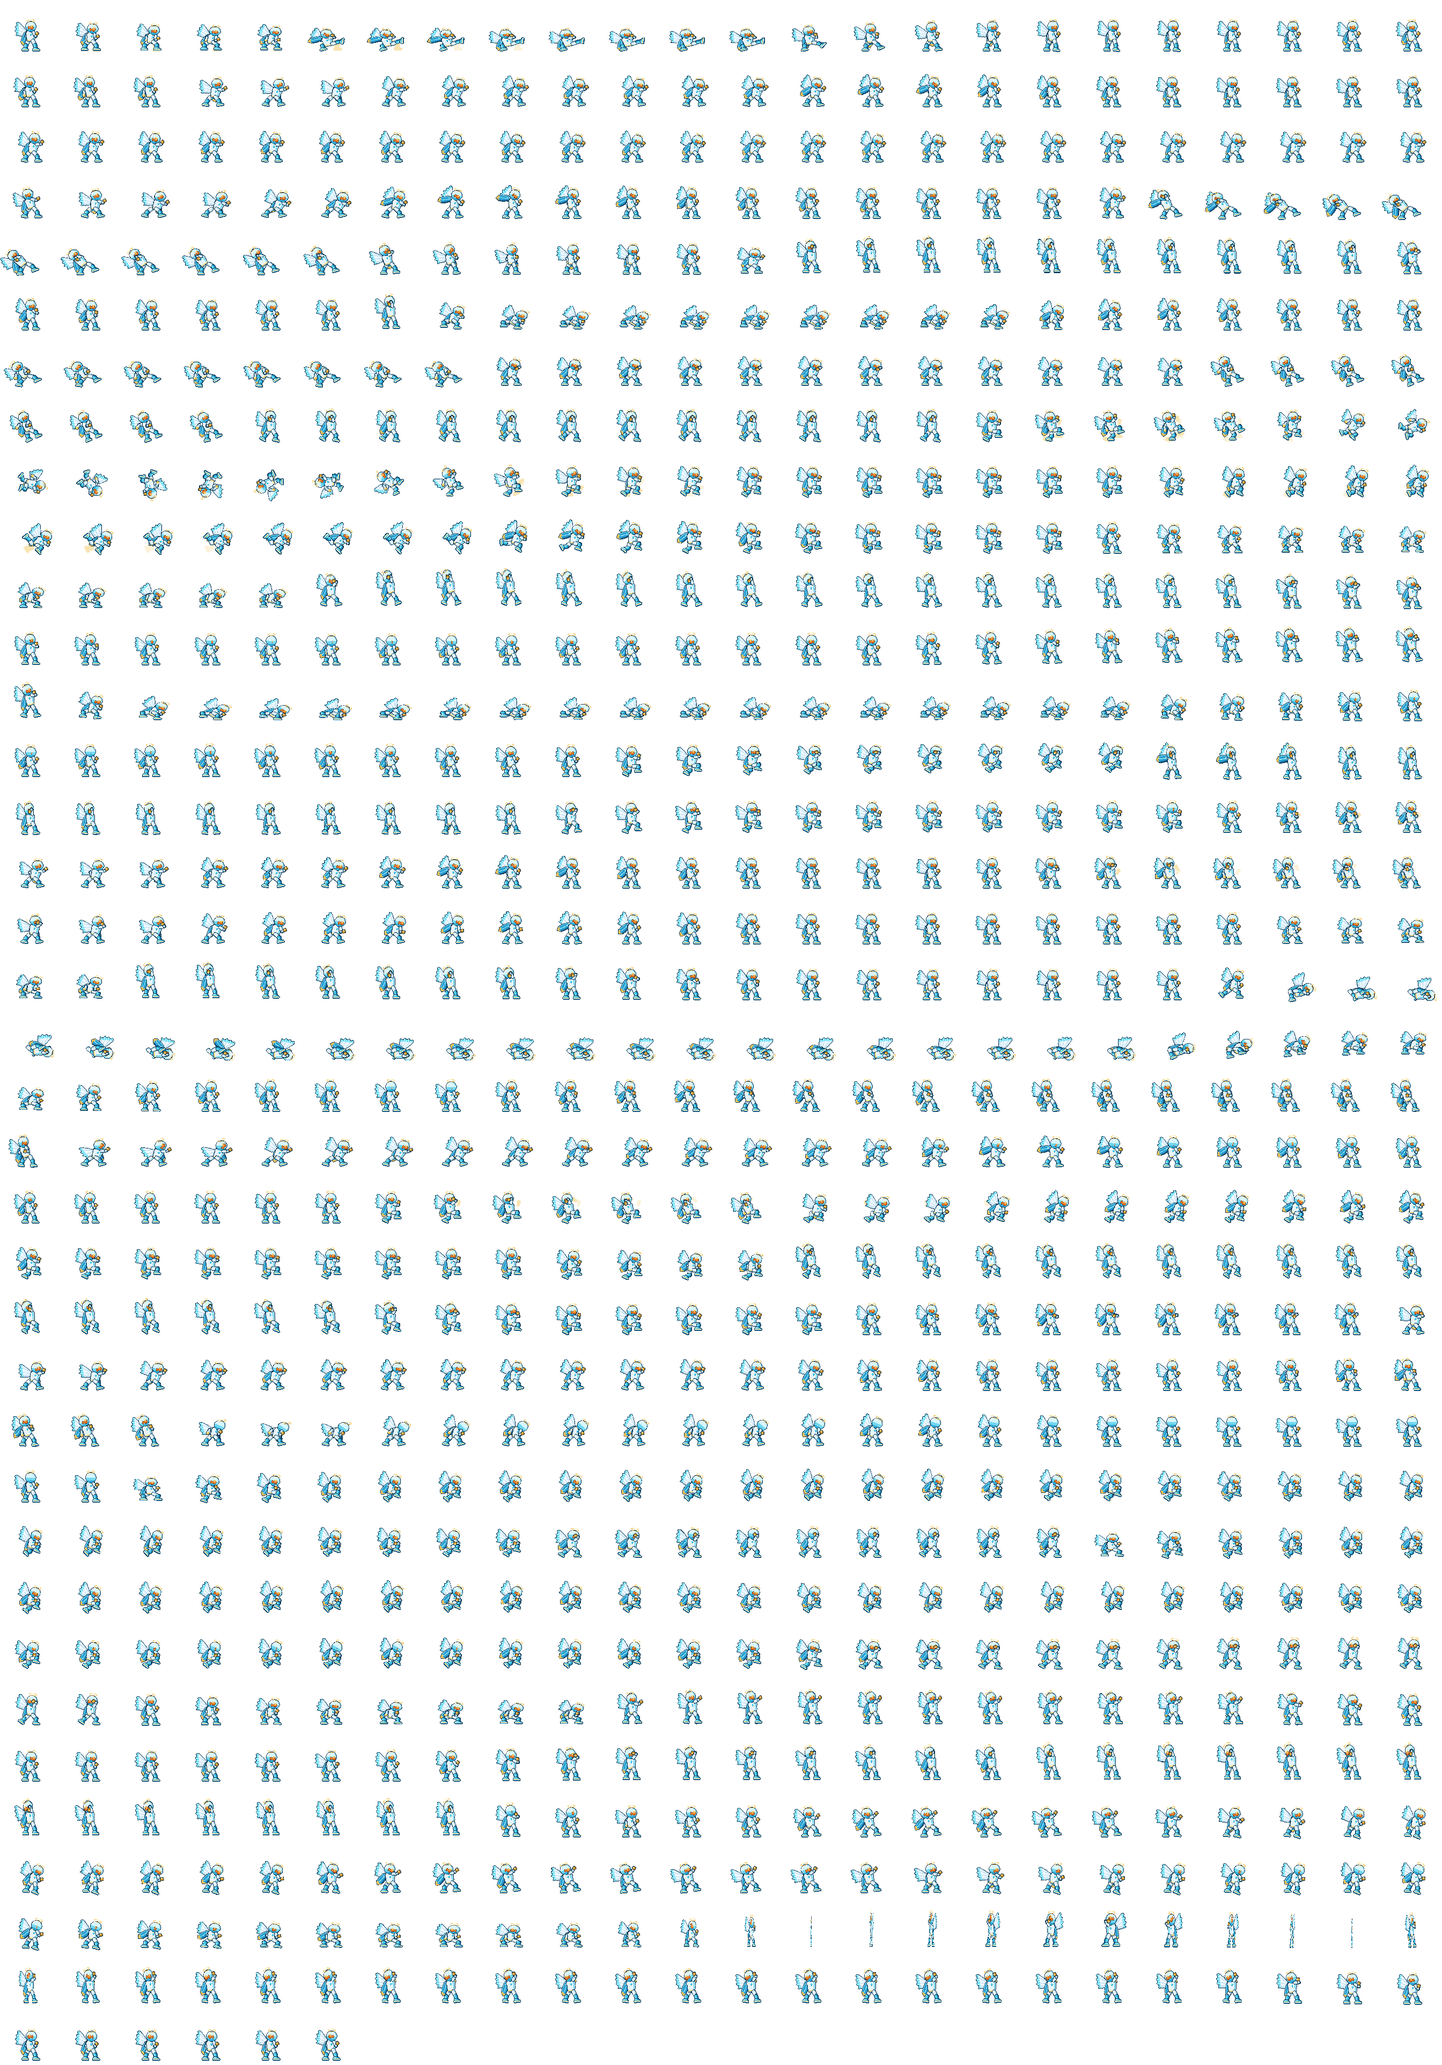
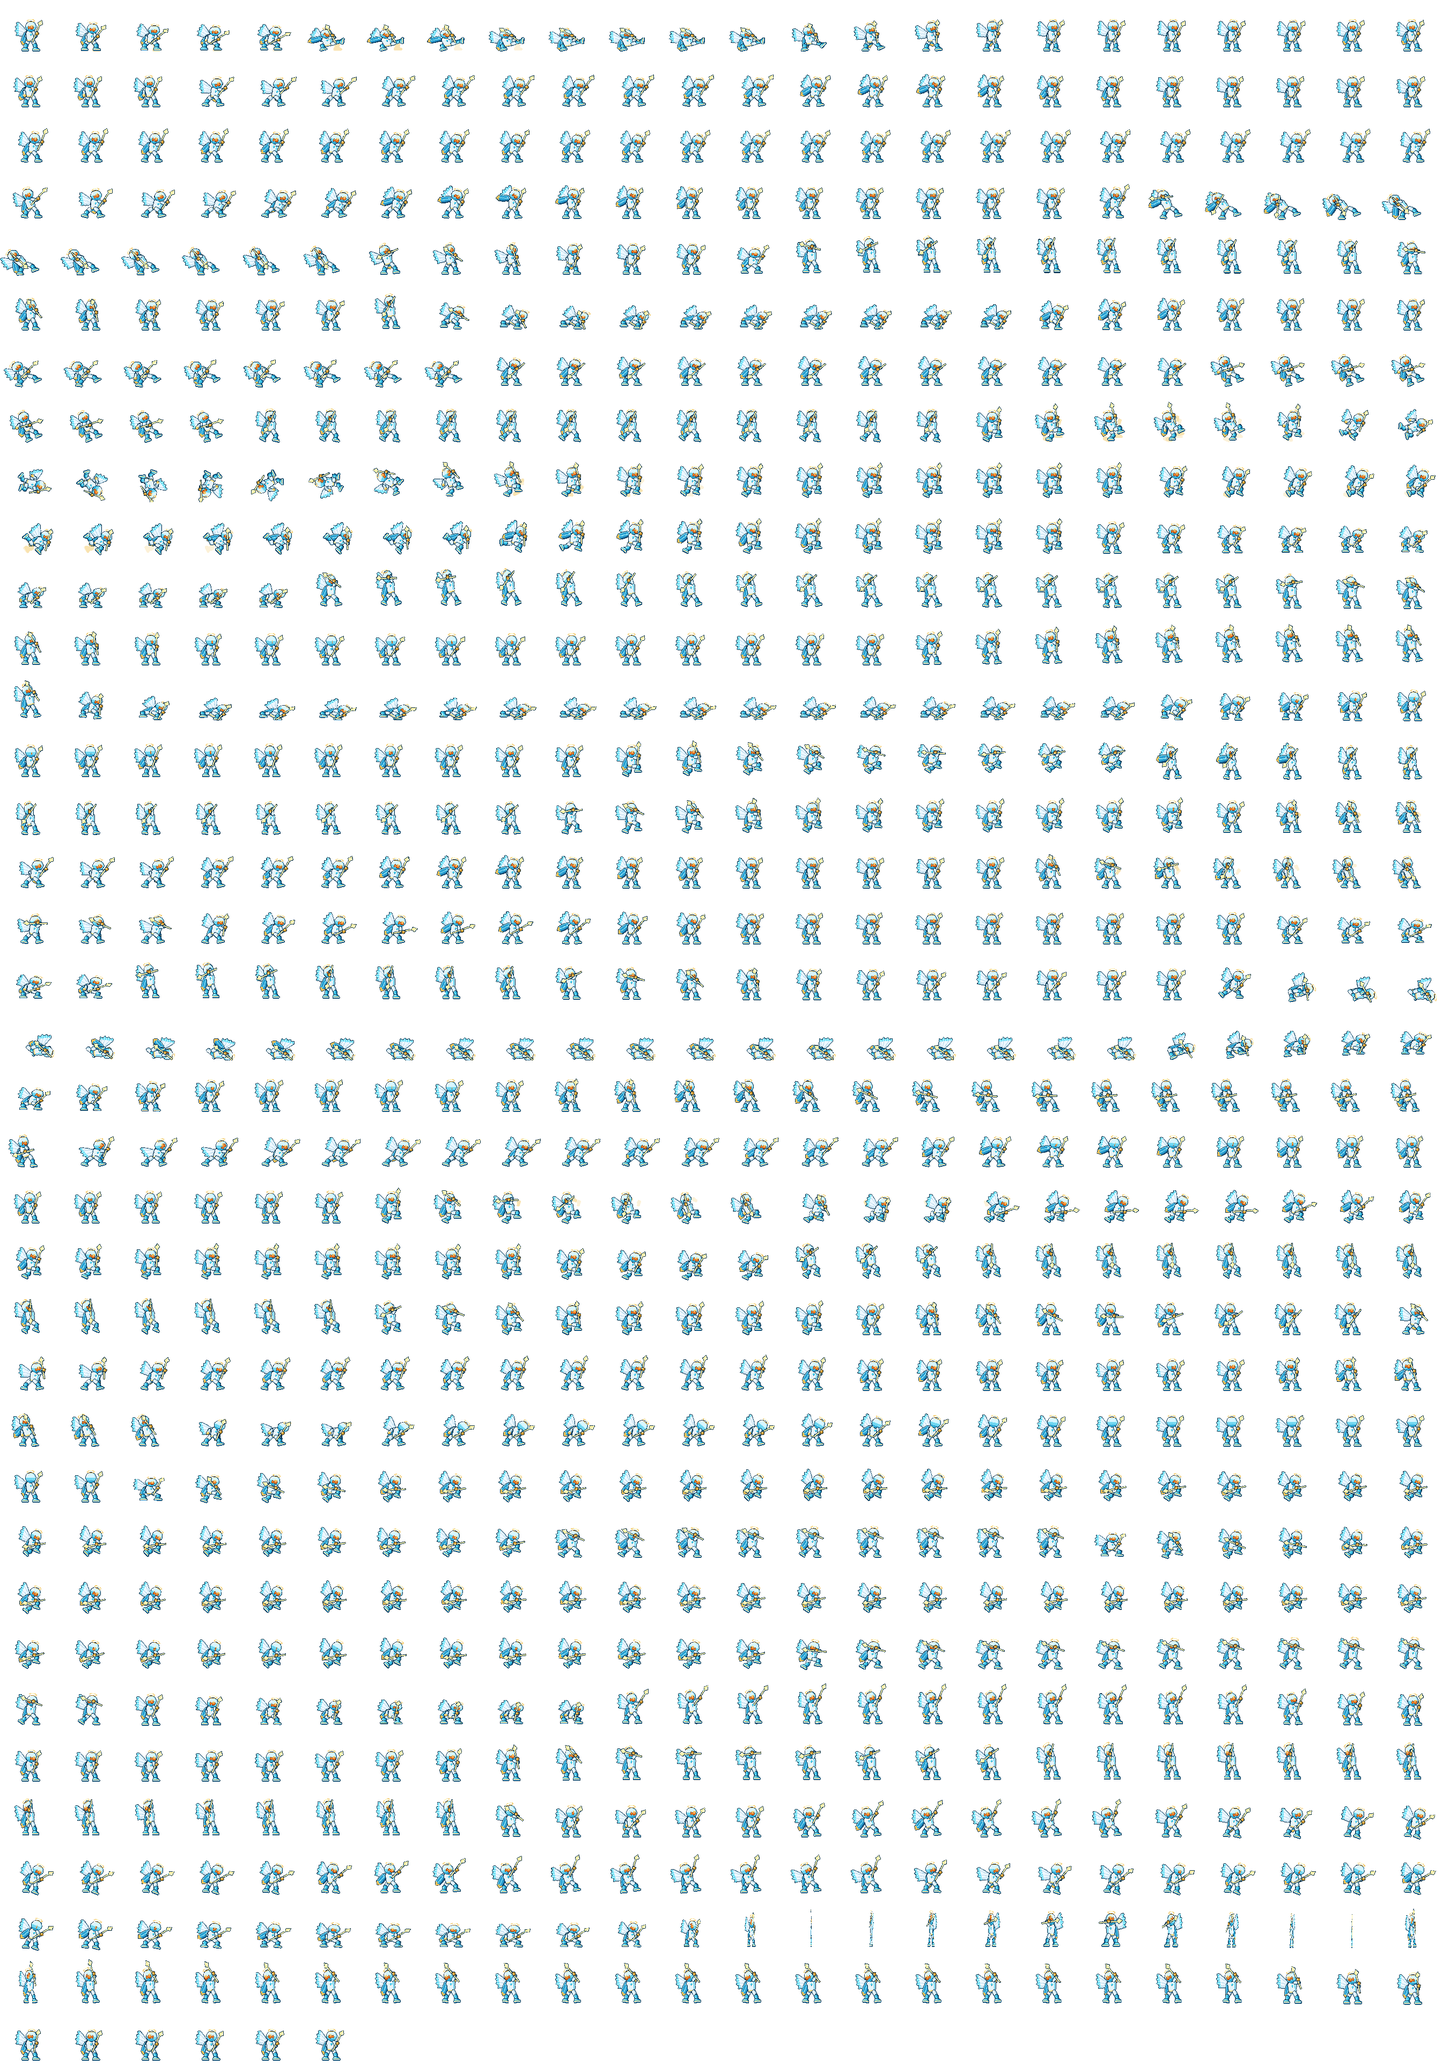
FULL AERO lasts until KO'd and wields a golden spear (more reach and damage on every normal); Character Files show milestone costumes and their full backstories before they're unlocked
Claude-Session: https://claude.ai/code/session_01QrPMowW61BtpNneRMoKnVz

diff --git a/src/scenes/FilesScene.js b/src/scenes/FilesScene.js
@@ -1,6 +1,7 @@
 // Character Files (TRINKETS > CHARACTER FILES): a dossier on each fighter - file number, alias, class,
 // weapon, origin, signature moves and Limit - their story, and a costume browser with each costume's
-// own story. Milestone costumes stay sealed (silhouette, no story) until they're unlocked.
+// own story. Milestone costumes can be looked at and read here before they're unlocked (marked LOCKED,
+// with how many KOs it takes to wear one).
 // W/S switches fighter, A/D switches costume, K / Esc / B goes back.
 // Mouse: click a fighter tab, or the < > arrows under the costume.
 import { VIEW_W, VIEW_H, FONT } from '../config.js';
@@ -12,7 +13,7 @@ import { addFullscreenButton } from '../ui/fullscreen.js';
 import { ROSTER, showFighter } from '../fighters/roster.js';
 import { skinsFor, skinUnlocked, skinTier } from '../fighters/skins.js';
 import { MILESTONE_KOS, getKOs } from '../progress.js';
-import { FILES, SKIN_LORE } from '../data/lore.js';
+import { FILES, SKIN_LORE, MILESTONE_LORE } from '../data/lore.js';
 
 const GOLD = '#f3c358', DIM = '#8a87a3', LINE = 0xc77dff, PANEL = 0x1c1230;
 const TAB_W = 150, TAB_Y = 44, L = { x: 16, y: 70, w: 190, h: 262 }, R = { x: 216, y: 70, w: 408, h: 262 };
@@ -71,11 +72,11 @@ export class FilesScene extends Phaser.Scene {
     this.fields.forEach(([, v], i) => v.setText(vals[i] || '???'));
     this.lore.setText(F.lore || 'NO FILE YET.');
     const open = skinUnlocked(f.id, this.si), tier = skinTier(f.id, this.si);
-    const story = skin.lore || (SKIN_LORE[f.id] || {})[skin.name];
-    this.skinName.setText(open ? skin.name : '? ? ?');
-    this.skinNote.setText((this.si + 1) + ' / ' + skins.length + (tier ? '\nMILESTONE ' + tier : '') + (open ? '' : '\nREACH ' + MILESTONE_KOS[tier] + ' KOS (' + getKOs(f.id) + ' SO FAR)'));
-    this.skinHead.setText('COSTUME FILE: ' + (open ? skin.name : 'SEALED'));
-    this.skinLore.setText(!open ? 'THIS FILE IS SEALED. WIN MORE FIGHTS AS ' + f.name + ' TO OPEN IT.' : story || 'NOTHING WRITTEN ABOUT THIS COSTUME YET.');
+    const story = (MILESTONE_LORE[f.id] || {})[skin.name] || skin.lore || (SKIN_LORE[f.id] || {})[skin.name];
+    this.skinName.setText(skin.name);
+    this.skinNote.setText((this.si + 1) + ' / ' + skins.length + (tier ? '\nMILESTONE ' + tier : '') + (open ? '' : '\nLOCKED: REACH ' + MILESTONE_KOS[tier] + ' KOS (' + getKOs(f.id) + ' SO FAR)'));
+    this.skinHead.setText('COSTUME FILE: ' + skin.name + (tier ? '  (MILESTONE ' + tier + (open ? ')' : ' - LOCKED)') : ''));
+    this.skinLore.setText(story || 'NOTHING WRITTEN ABOUT THIS COSTUME YET.');
     this.locked = !open;
   }
 
@@ -101,6 +102,11 @@ export class FilesScene extends Phaser.Scene {
     sg.fillStyle(0x2a1f44, 1); sg.fillRect(cx - 50, by, 100, 6); sg.fillStyle(0x3a2a5a, 1); sg.fillRect(cx - 44, by + 6, 88, 4);
     showFighter(this.sprite, def, Math.floor(this.t / 6), this.si);
     this.sprite.setPosition(cx, by).setScale(def.ownAnims ? 1.4 : 2);
-    if (this.locked) this.sprite.setTint(0x0b0a14).setTintMode(Phaser.TintModes.FILL); else this.sprite.clearTint();
+    this.sprite.clearTint().setAlpha(this.locked ? 0.75 + 0.1 * Math.sin(this.t * 0.08) : 1);   // a locked costume: shown, but a little ghostly
+    const lg = this.stageG;
+    if (this.locked) {                                               // a small padlock on the plinth
+      lg.fillStyle(0xf3c358, 1); lg.fillRect(cx + 36, by - 8, 10, 8); lg.lineStyle(2, 0xf3c358, 1); lg.strokeRect(cx + 38, by - 13, 6, 6);
+      lg.fillStyle(0x0b0a14, 1); lg.fillRect(cx + 40, by - 5, 2, 3);
+    }
   }
 }

diff --git a/src/data/lore.js b/src/data/lore.js
@@ -56,3 +56,26 @@ export const SKIN_LORE = {
     STARLIGHT: 'She stood night watch on the Sanctum walls so often that the stars started to stick to her armour.',
   },
 };
+
+// the full backstory of each milestone costume, shown in CHARACTER FILES (even before it's unlocked).
+// The one-line `lore` in skins.js is what the unlock screen shows.
+export const MILESTONE_LORE = {
+  'soul-summoner': {
+    GRAVEKEEPER: 'Before the crown, before the fire, he dug graves below the Sky Sanctum for a copper a day. One night, with rain in the open pits, the dead whispered his name - and he was the only one in the kingdom who whispered back.',
+    WRAITHBINDER: 'He learned their names, and a name is a leash. Two wraiths came first: a drowned sailor and a soldier with no face. They never left his side again, and they never once disobeyed him.',
+    LICH: 'Binding the dead costs the living a little of themselves every time. He paid until there was nothing left to pay with. His flesh fell away, and a crown of violet fire lit itself above his bare skull.',
+    'THE HOLLOW KING': 'Every soul he ever raised came home at once. The dead of a thousand years knelt before him on a throne of grave dirt and blue flame. The Hollow King does not rule a kingdom. He rules everyone who has ever left one.',
+  },
+  'hero-knight': {
+    SQUIRE: 'Lacy was twelve when the knights rode out and never came back. She put on the bronze armour they left behind, three sizes too big, picked up a borrowed sword, and swore their oath alone in an empty chapel.',
+    'KNIGHT-CAPTAIN': 'No one was left to knight her, so the people she saved did it instead - on a muddy field, with her own sword, after she held a bridge for a whole night. The royal blue was a gift from the village weavers.',
+    PALADIN: 'An old shrine in the mountains had waited a hundred years for someone to keep the oath long enough. When she knelt there, the light came down and stayed. Now it gathers wherever her sword falls.',
+    SERAPH: 'The oath is fulfilled: every promise kept, every person protected. The order she carried alone rises with her on wings of light. She still swings like a slugger. Some things a seraph keeps.',
+  },
+  'mr-wake': {
+    RIPTIDE: 'The first time he lost a fight, he walked back into the sea to sulk. The tide turned under him and pulled - and for the first time in a hundred years, something down there pulled harder than he did. He came out soaked and smiling.',
+    DEEPWATER: 'He let the current take him deeper. Past the wrecks, past the light, down where the gem in his staff had to learn to glow on its own. Bubbles still stream from his cloak - the sea keeps trying to breathe through him.',
+    "ANGLER'S PACT": 'At the bottom of the black trench, something with a lantern for a face offered him a deal. He took it. His staff became a lure, his skin a lantern, and nobody - not even Mr Wake - remembers what he gave in return.',
+    TIDEFATHER: 'The abyss answered. It crowned him in coral and gave him the tides to wear like a cloak. When the Tidefather moves, the ocean moves with him, and every drowned thing beneath it remembers his name.',
+  },
+};

diff --git a/src/fighters/aero.js b/src/fighters/aero.js
@@ -96,21 +96,42 @@ export const AERO = {
     colors: PAL_AQUA,
   },
   // FULL AERO: his Limit with two computers out. They pour their power into him, a blast hits everyone
-  // near him for 30%, GOING FULL AERO appears, the stage turns Frutiger Aero and he transforms for 15 s.
+  // near him for 30%, GOING FULL AERO appears, the stage turns Frutiger Aero and he transforms - for good,
+  // until he's KO'd.
   altLimit: {
-    name: 'FULL AERO', frames: 100, blastAt: 50, radius: 170, duration: 900,
+    name: 'FULL AERO', frames: 100, blastAt: 50, radius: 170,
+    duration: Infinity,             // frames he stays FULL AERO (Infinity = until he's KO'd)
     blast: { dmg: 30, angle: 70, base: 6.0, growth: 5.4, radial: true },
   },
 };
 
-// AERO in FULL AERO: winged, haloed, crowned (tools/sprites/aero_king_draw.py), every stat boosted
-// (Fighter.aeroLevel), and every special upgraded.
+// FULL AERO's GOLDEN SPEAR: his normal attacks are spear thrusts and sweeps now. Each one's hitbox grows the
+// way the attack points (forward, up, down, back or both ways) and hits harder.
+const SPEAR = {
+  reach: 22,                        // extra reach in pixels
+  dmg: 1.25,                        // damage multiplier (tiny 1% multi-hits stay as they are)
+  dir: { jab: 'f', ftilt: 'f', dtilt: 'f', dashAttack: 'f', fsmash: 'f', fair: 'f', nair: 'both', dsmash: 'both', utilt: 'up', usmash: 'up', uair: 'up', bair: 'back', dair: 'down' },
+};
+function spearMove(m, dir) {
+  const r = SPEAR.reach;
+  return { ...m, hits: m.hits.map((h) => {
+    let [x, y, w, hh] = h.box;
+    if (dir === 'f') w += r; else if (dir === 'back') { x -= r; w += r; } else if (dir === 'both') { x -= r; w += 2 * r; }
+    else if (dir === 'up') { y -= r; hh += r; } else if (dir === 'down') hh += r;
+    return { ...h, box: [x, y, w, hh], dmg: h.dmg > 1 ? Math.round(h.dmg * SPEAR.dmg) : h.dmg };
+  }) };
+}
+
+// AERO in FULL AERO: winged, haloed, crowned, with a golden spear (tools/sprites/aero_king_draw.py), every
+// stat boosted (Fighter.aeroLevel), every normal attack a spear attack and every special upgraded.
 export const AERO_FULL = {
   ...AERO,
+  swingSfx: 'whoosh',
   sheets: { idle: 'aero_king_idle', run: 'aero_king_run', jump: 'aero_king_jump', fall: 'aero_king_fall', moves: 'aero_king_moves' },
   moveAnims: { ...AERO_MOVES, upb: AERO_MOVES.upb_king },
   moves: {
     ...AERO.moves,
+    ...Object.fromEntries(Object.entries(SPEAR.dir).map(([k, d]) => [k, spearMove(AERO.moves[k], d)])),
     // BUBBLE TRAP: blown out much faster, and the bubble holds them twice as long
     neutralB: { frames: 18, spawnAt: 7, bubble: { speed: 3.8, life: 110, r: 12, hit: { dmg: 5, angle: 90, base: 0.6, growth: 0, stun: 96, bubble: 96 } } },
     // GOLDFISH FLING: two fish at once

diff --git a/src/fighters/roster.js b/src/fighters/roster.js
@@ -26,7 +26,7 @@ export const TEST_ROSTER = [
     notes: 'GLOSSY GLASS, AQUA SKIES, BUBBLES AND\nA GOLDFISH IN A FISHBOWL. LIGHT AND FLOATY.\n\n'
       + 'JAB  BUBBLE POP      FTILT  AURORA SWOOSH\nFSMASH  LENS FLARE    USMASH  GEYSER\nDSMASH  RIPPLE        DAIR  RAINDROP\n\n'
       + 'K      BUBBLE TRAP - SEALS THEM IN A BUBBLE\nSIDE K GOLDFISH FLING - OUT AND BACK\nUP K   BUBBLE RIDE - FLOAT UP AND POP\n'
-      + 'DOWN K DESKTOP - STAY NEAR IT: POWERED UP\n\nLIMIT  SCREENSAVER - OR WITH 2 PCS OUT:\n       FULL AERO! (15 S, EVERYTHING UPGRADED)\n1      TAUNT: FISHBOWL BOOGIE' },
+      + 'DOWN K DESKTOP - STAY NEAR IT: POWERED UP\n\nLIMIT  SCREENSAVER - OR WITH 2 PCS OUT:\n       FULL AERO! (UNTIL KO\'D: GOLDEN SPEAR,\n       EVERYTHING UPGRADED)\n1      TAUNT: FISHBOWL BOOGIE' },
   { id: 'what-once-was', name: 'WHAT ONCE WAS', def: WHAT_ONCE_WAS, tag: 'PROTOTYPE 03',
     notes: 'LOST IN THE BACKROOMS SO LONG IT BECAME PART\nOF THEM. ITS HEAD IS AN OLD TV.\n\n'
       + 'JAB  SCREEN BASH     FTILT  LONG REACH\nFSMASH  CRT BLAST     USMASH  ANTENNA SURGE\nDSMASH  DEAD SIGNAL   DAIR  POWER CORD\n\n'

diff --git a/src/fighters/limitAero.js b/src/fighters/limitAero.js
@@ -89,7 +89,7 @@ export class LimitAero {
   // ---- FULL AERO (AERO's alternate Limit, with two computers out): the computers pour their power into
   // him, then a blast of light (30%) hits everyone near him, the words GOING FULL AERO appear, the stage
   // turns into a Frutiger Aero version of itself, and he transforms - winged, haloed, crowned - with every
-  // stat boosted and every special upgraded for the rest of the time (FULL_AERO in aero.js).
+  // stat boosted, a golden spear on every normal attack and every special upgraded - until he's KO'd (AERO_FULL in aero.js).
   fullAeroLimit(A) {
     const m = this.match;
     if (this.t === 1) {

diff --git a/tools/sprites/aero_king_draw.py b/tools/sprites/aero_king_draw.py
@@ -5,7 +5,10 @@ regal: a golden halo floating over the bowl, the goldfish wearing a tiny crown, 
 wings with aqua tips behind him, a royal aqua cape with gold trim and a white collar in place of the leaf
 scarf, gold trim on the suit (belt, collar, boot soles) and golden gloves.
 
-Built on aero_draw.py's parts (same joints and rig), with two new parts: 'wings' and 'halo'.
+He also carries a GOLDEN SPEAR in his front hand, along the line of his forearm, so it points wherever he
+swings (part 'spear', hung on the glove).
+
+Built on aero_draw.py's parts (same joints and rig), with three new parts: 'wings', 'halo' and 'spear'.
 The cape keeps the scarf's part name, so it trails and streams the same way.
 """
 import numpy as np
@@ -79,10 +82,30 @@ def draw_parts():
     for (x, y, c) in [(33, 11, 1), (34, 10, 0), (35, 11, 1), (36, 10, 0), (37, 11, 1), (33, 12, 2), (34, 12, 1), (35, 12, 1), (36, 12, 1), (37, 12, 2)]:
         f[y, x] = hx(GOLD[c])
     P['fish'] = f
+    # ---- the golden spear: through his glove along the forearm (elbow 42,31 -> glove 44,26), the point well
+    # past his hand, the butt behind it. A leaf-shaped gold head with a white edge and an aqua tassel.
+    import math
+    gx, gy = 44, 26
+    ux, uy = 2 / math.hypot(2, 5), -5 / math.hypot(2, 5)                  # along the forearm, outward
+    tip = (gx + ux * 25.5, gy + uy * 25.5); butt = (gx - ux * 17, gy - uy * 17); neck = (gx + ux * 16, gy + uy * 16)
+    im = blank(); d = ImageDraw.Draw(im)
+    d.line([butt, neck], fill=hx(GOLD[0]), width=2)                        # the shaft
+    px, py = -uy, ux                                                       # sideways
+    d.polygon([neck, (neck[0] + ux * 3 + px * 4, neck[1] + uy * 3 + py * 4), tip, (neck[0] + ux * 3 - px * 4, neck[1] + uy * 3 - py * 4)], fill=hx(GOLD[0]))
+    a = finish(im, GOLD)
+    for i in range(3, 8):                                                  # a white gleam up the blade
+        x, y = int(round(neck[0] + ux * i + px)), int(round(neck[1] + uy * i + py))
+        if 0 <= x < 64 and 0 <= y < 64 and a[y, x, 3]: a[y, x] = hx(0xffffff)
+    for i in range(2):                                                     # the aqua tassel under the head
+        x, y = int(round(neck[0] - ux * (1 + i) - px * 2)), int(round(neck[1] - uy * (1 + i) - py * 2))
+        a[y, x] = hx(aero_draw.PAL['aqua'][0 if i else 1])
+    bx, by = int(round(butt[0])), int(round(butt[1]))
+    a[by, bx] = hx(GOLD[2])                                                # the butt cap
+    P['spear'] = a
     return P
 
-ORDER = ['wings', 'scarf', 'bupper', 'bfore', 'bthigh', 'bshin', 'bshoe', 'torso', 'fthigh', 'fshin', 'fshoe', 'head', 'halo', 'fish', 'fupper', 'ffore', 'ffist']
-RIG = dict(aero_draw.RIG, wings=((29, 25), 'torso'), halo=((33, 2), 'head'))
+ORDER = ['wings', 'scarf', 'bupper', 'bfore', 'bthigh', 'bshin', 'bshoe', 'torso', 'fthigh', 'fshin', 'fshoe', 'head', 'halo', 'fish', 'fupper', 'ffore', 'spear', 'ffist']
+RIG = dict(aero_draw.RIG, wings=((29, 25), 'torso'), halo=((33, 2), 'head'), spear=((44, 26), 'ffist'))
 
 def composite(P, hide=()):
     out = np.zeros((64, 64, 4), np.uint8)

diff --git a/CLAUDE.md b/CLAUDE.md
@@ -50,7 +50,7 @@ Owner: Mason (artist; does the sprites and design). Live build: https://kobrabro
 - **Lacy / Hero Knight** (`hero-knight`, keys `hk_*`): 150×90 frames, 180×140 moves. Battle-Worn damage stages (worn1–3), Samurai + Akatsuki costumes. Unarmed `_u` sheets.
 - **Test fighters** (`TEST_ROSTER` in `roster.js`, played from Trinkets > TEST FIGHTERS, never on the select grid):
   **NU** (`nu`, keys `nu_*`, art `tools/sprites/nu_draw.py` + `nu_moves.py`) and **AERO** (`aero`, keys `aero_*`, `aero_draw.py` +
-  `aero_moves.py`; his FULL AERO form is `aero_king_*`, `aero_king_draw.py`, def `AERO_FULL`). 64×64 base frames, 112×104 moves.
+  `aero_moves.py`; his FULL AERO form - permanent until KO'd, with a golden spear (part `spear`; `SPEAR` in aero.js grows his normals' reach and damage) - is `aero_king_*`, `aero_king_draw.py`, def `AERO_FULL`). 64×64 base frames, 112×104 moves.
   **WHAT ONCE WAS** (`what-once-was`, keys `wow_*`, art `tools/sprites/what_once_was_draw.py` + `what_once_was_moves.py`, same rig as NU):
   a deformed Backrooms entity with a CRT TV head (screen layers `scr_*` picked per pose). MISSING Poster, Channel Surf side-B, OUT OF
   BODY up-B, Wrong Door down-B, LEVEL 0 limit (the Bacteria chase). Unique mechanic: `def.signal` meter -> when full it
